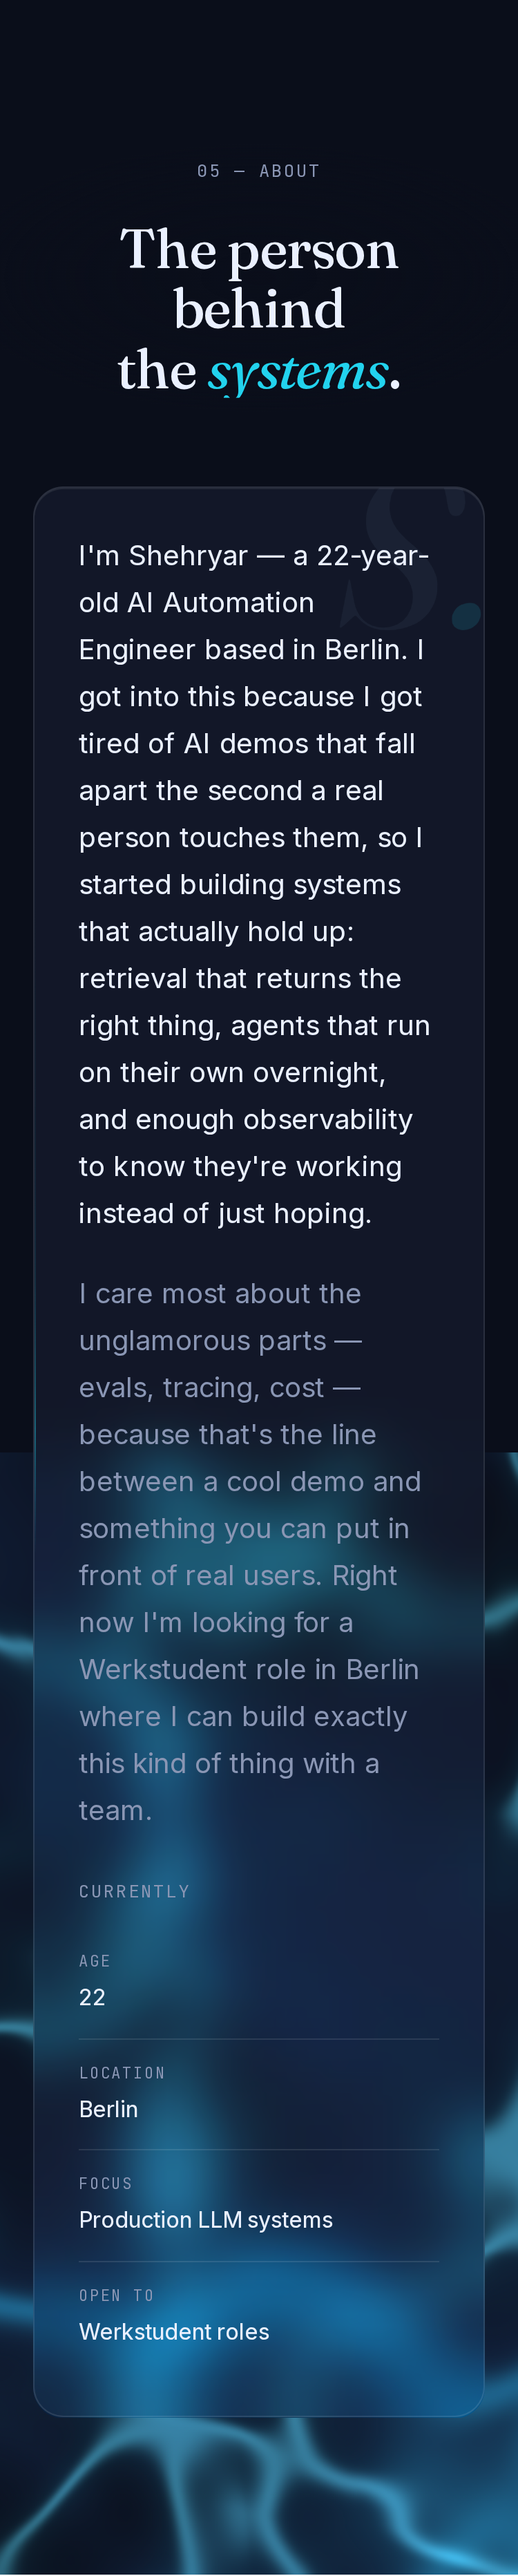
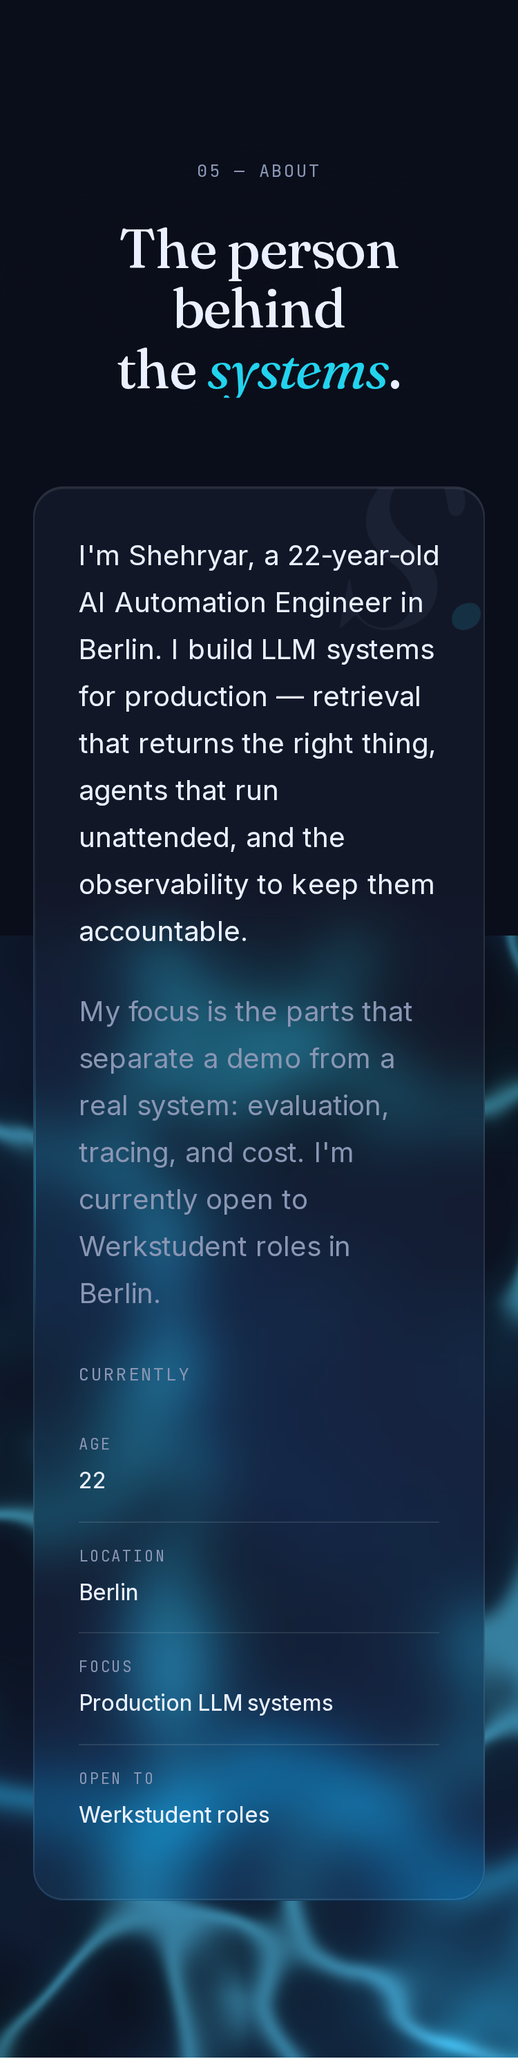
polish(portfolio-dark): About copy — calmer, states instead of sells
Sherry's revised bio verbatim; Currently list, monogram, glass +
glow unchanged. Captures updated, 0 errors/overflow, tsc clean.

diff --git a/src/components/portfolio-dark/DarkAbout.tsx b/src/components/portfolio-dark/DarkAbout.tsx
@@ -94,23 +94,18 @@ export default function DarkAbout() {
                   fontWeight: 420,
                 }}
               >
-                I&apos;m Shehryar — a 22-year-old AI Automation Engineer based
-                in Berlin. I got into this because I got tired of AI demos that
-                fall apart the second a real person touches them, so I started
-                building systems that actually hold up: retrieval that returns
-                the right thing, agents that run on their own overnight, and
-                enough observability to know they&apos;re working instead of
-                just hoping.
+                I&apos;m Shehryar, a 22-year-old AI Automation Engineer in
+                Berlin. I build LLM systems for production — retrieval that
+                returns the right thing, agents that run unattended, and the
+                observability to keep them accountable.
               </p>
               <p
                 className="mt-[var(--space-6)]"
                 style={{ fontSize: "var(--step-1)", lineHeight: 1.7, color: "var(--muted)" }}
               >
-                I care most about the unglamorous parts — evals, tracing, cost
-                — because that&apos;s the line between a cool demo and something
-                you can put in front of real users. Right now I&apos;m looking
-                for a Werkstudent role in Berlin where I can build exactly this
-                kind of thing with a team.
+                My focus is the parts that separate a demo from a real system:
+                evaluation, tracing, and cost. I&apos;m currently open to
+                Werkstudent roles in Berlin.
               </p>
             </div>
 
